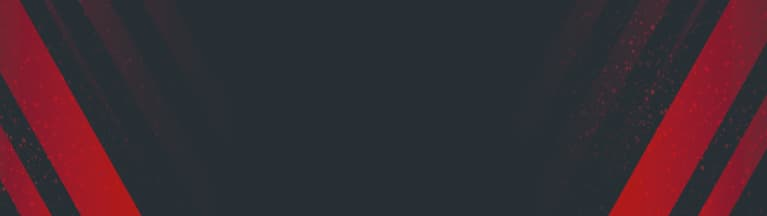
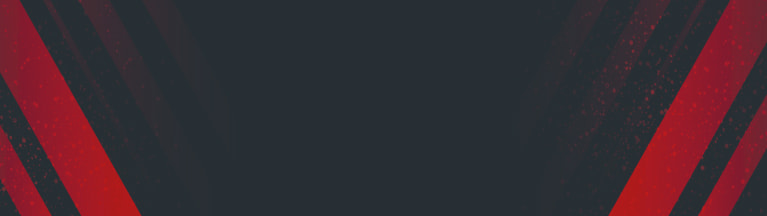
FT-01 refine bg images

Changed region(s): [[0.09, 0.4444, 0.1199, 0.4722]]

diff --git a/src/sass/layout/_header.scss b/src/sass/layout/_header.scss
@@ -50,8 +50,8 @@
 .library-header-bg {
   background-image: linear-gradient(
       to right,
-      rgba(#000000, 0.4),
-      rgba(#000000, 0.4)
+      rgba(#000000, 0.56),
+      rgba(#000000, 0.56)
     ),
     url(../images/header/header-bg/library-header-bg-mobile.jpg);
 
@@ -60,8 +60,8 @@
     (min-resolution: 2dppx) {
     background-image: linear-gradient(
         to right,
-        rgba(#000000, 0.4),
-        rgba(#000000, 0.4)
+        rgba(#000000, 0.56),
+        rgba(#000000, 0.56)
       ),
       url(../images/header/header-bg/library-header-bg-mobile@2x.jpg);
   }
@@ -200,8 +200,8 @@
   .library-header-bg {
     background-image: linear-gradient(
         to right,
-        rgba(#000000, 0.4),
-        rgba(#000000, 0.4)
+        rgba(#000000, 0.556),
+        rgba(#000000, 0.556)
       ),
       url(../images/header/header-bg/library-header-bg-tablet.jpg);
 
@@ -210,8 +210,8 @@
       (min-resolution: 2dppx) {
       background-image: linear-gradient(
           to right,
-          rgba(#000000, 0.4),
-          rgba(#000000, 0.4)
+          rgba(#000000, 0.556),
+          rgba(#000000, 0.556)
         ),
         url(../images/header/header-bg/library-header-bg-tablet@2x.jpg);
     }
@@ -244,8 +244,8 @@
   .library-header-bg {
     background-image: linear-gradient(
         to right,
-        rgba(#000000, 0.4),
-        rgba(#000000, 0.4)
+        rgba(#000000, 0.5556),
+        rgba(#000000, 0.5556)
       ),
       url(../images/header/header-bg/library-header-bg-desktop.jpg);
 
@@ -254,8 +254,8 @@
       (min-resolution: 2dppx) {
       background-image: linear-gradient(
           to right,
-          rgba(#000000, 0.4),
-          rgba(#000000, 0.4)
+          rgba(#000000, 0.5556),
+          rgba(#000000, 0.5556)
         ),
         url(../images/header/header-bg/library-header-bg-desktop@2x.jpg);
     }
@@ -263,6 +263,13 @@
 
   .search-form {
     width: 396px;
+  }
+
+  .header-btn:hover {
+    background-color: #ff6b01;
+    box-shadow: 0 8px 43px rgba(255, 255, 255, 0.6);
+    border-color: transparent;
+    color: var(--primary-color-white);
   }
 
   .logo-link-hover {

diff --git a/src/sass/components/_auth-modal.scss b/src/sass/components/_auth-modal.scss
@@ -86,9 +86,6 @@
   margin-bottom: 30px;
 }
 
-@include breakpoints(tablet) {
-}
-
 .notiflix-confirm {
   position: absolute;
 }
@@ -105,5 +102,14 @@
   &:hover {
     fill: var(--accent-color);
     border-color: var(--accent-color);
+  }
+}
+
+@include breakpoints(desktop) {
+  .auth-form-btn {
+    &:hover {
+      border-color: var(--accent-color);
+      background-color: var(--accent-color);
+    }
   }
 }
